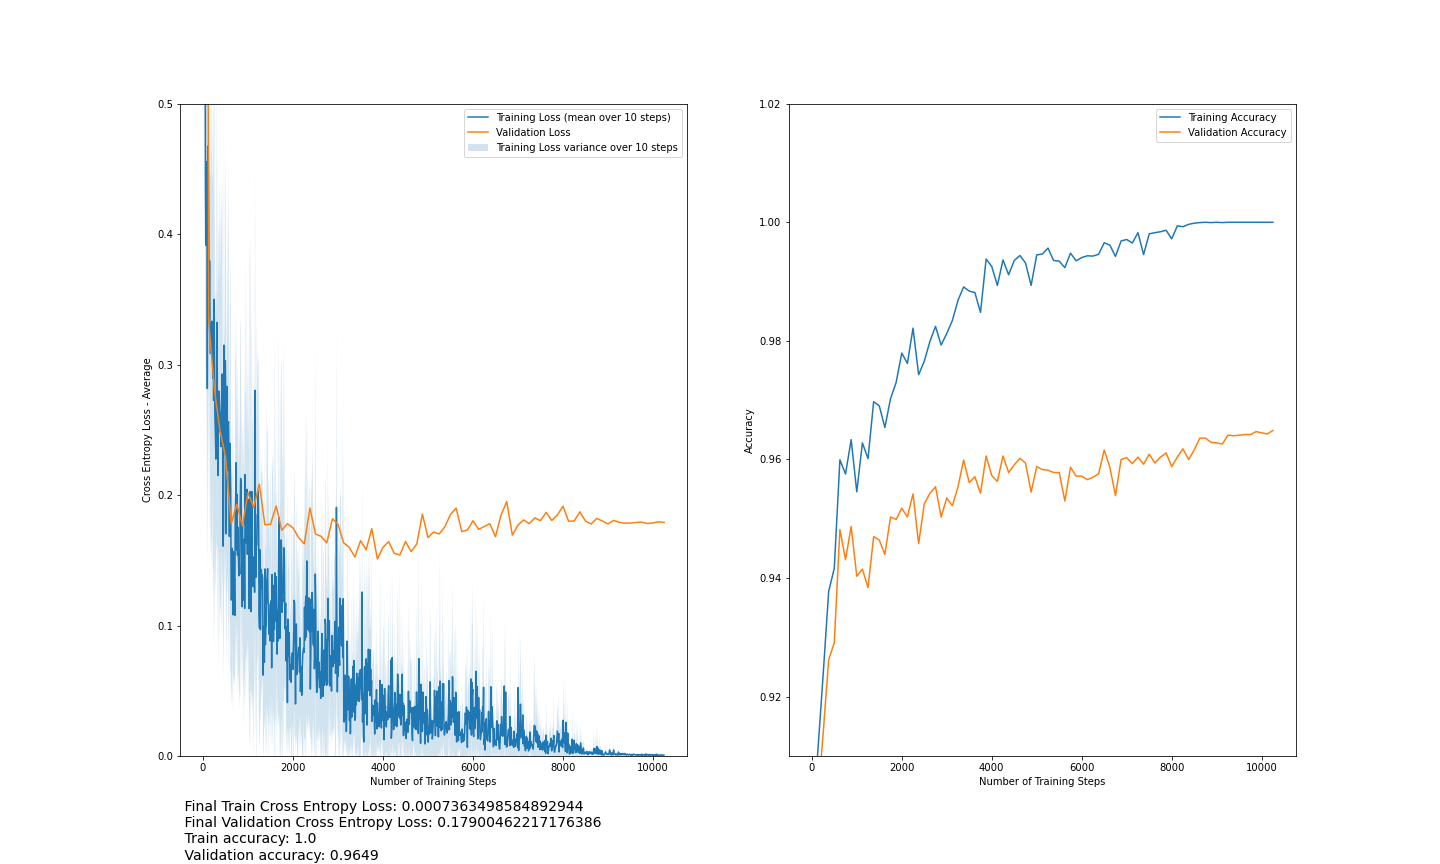
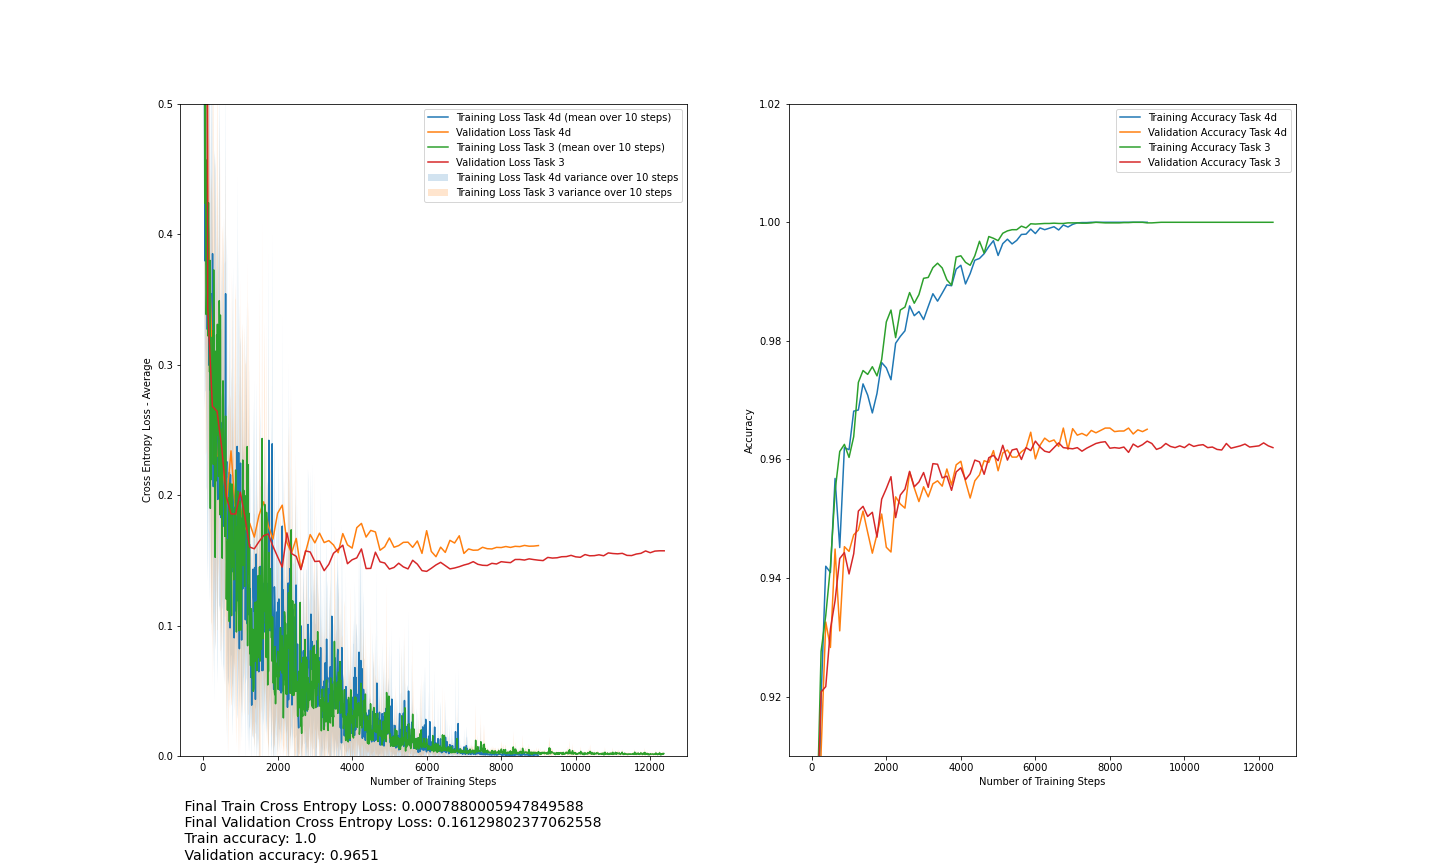
did small modifications to plotts, added new plotts, and wrote in the report for task 4

diff --git a/assignment2/task4e.py b/assignment2/task4e.py
@@ -45,7 +45,7 @@ if __name__ == "__main__":
         use_improved_weight_init)
     trainer_two_hidden_layers = SoftmaxTrainer(
         momentum_gamma, use_momentum,
-        model, learning_rate, batch_size, shuffle_data,
+        model_two_hidden_layers, learning_rate, batch_size, shuffle_data,
         X_train, Y_train, X_val, Y_val,
     )
     train_history_two_hidden_layers, val_history_two_hidden_layers = trainer_two_hidden_layers.train(num_epochs)
@@ -58,44 +58,40 @@ if __name__ == "__main__":
         use_improved_weight_init)
     trainer_ten_hidden_layers = SoftmaxTrainer(
         momentum_gamma, use_momentum,
-        model, learning_rate, batch_size, shuffle_data,
+        model_ten_hidden_layers, learning_rate, batch_size, shuffle_data,
         X_train, Y_train, X_val, Y_val,
     )
     train_history_ten_hidden_layers, val_history_ten_hidden_layers = trainer_ten_hidden_layers.train(num_epochs)
 
 
-    # Plot loss for first model (task 4d)
+    # Plot loss for first model (task 4e)
     plt.figure(figsize=(20, 12))
     plt.subplot(1, 2, 1)
     plt.ylim([0., .5])
     utils.plot_loss(train_history["loss"],
-                    "Training Loss", npoints_to_average=10)
-    utils.plot_loss(val_history["loss"], "Validation Loss")
+                    "Task 3 Model Training Loss", npoints_to_average=10)
+    utils.plot_loss(train_history_two_hidden_layers["loss"],
+                    "Two hidden layers training loss ", npoints_to_average=10)
+    utils.plot_loss(train_history_ten_hidden_layers["loss"],
+                    "Ten hidden layers training loss ",npoints_to_average=10 )
     plt.legend()
     plt.xlabel("Number of Training Steps")
     plt.ylabel("Cross Entropy Loss - Average")
     #Add text with loss and accuracy information
-    plt.annotate("\n Final Train Cross Entropy Loss: {} \n Final Validation Cross Entropy Loss: {} \n Train accuracy: {} \n Validation accuracy: {}".format(
-          cross_entropy_loss(Y_train, model.forward(X_train)),
-          cross_entropy_loss(Y_val, model.forward(X_val)), calculate_accuracy(X_train, Y_train, model), calculate_accuracy(X_val, Y_val, model)),  # Your string
 
-            # The point that we'll place the text in relation to 
-            xy=(0, -0.01), 
-            # Interpret the x as axes coords, and the y as figure coords
-            xycoords=('axes fraction', 'figure fraction'),
-
-            # The distance from the point that the text will be at
-            xytext=(0, 10),  
-            # Interpret `xytext` as an offset in points...
-            textcoords='offset points',
-
-            # Any other text parameters we'd like
-            size=14, ha='left', va='bottom')
+    
     # Plot accuracy
     plt.subplot(1, 2, 2)
     plt.ylim([0.91, 1.02])
-    utils.plot_loss(train_history["accuracy"], "Training Accuracy")
-    utils.plot_loss(val_history["accuracy"], "Validation Accuracy")
+    utils.plot_loss(train_history["accuracy"],
+                    "Task 3 Model Training accuracy")
+    utils.plot_loss(val_history["accuracy"], "Task 3 Model Validation accuracy")
+    utils.plot_loss(train_history_two_hidden_layers["accuracy"],
+                    "Two hidden layers training accuracy", )
+    utils.plot_loss(val_history_two_hidden_layers["accuracy"], "Two hidden layers validation accuracy")
+    utils.plot_loss(train_history_ten_hidden_layers["accuracy"],
+                    "Ten hidden layers training accuracy", )
+    utils.plot_loss(val_history_ten_hidden_layers["accuracy"], "Ten hidden layers validation accuracy")
     plt.xlabel("Number of Training Steps")
     plt.ylabel("Accuracy")
     plt.legend()

diff --git a/assignment2/task3.py b/assignment2/task3.py
@@ -37,23 +37,24 @@ if __name__ == "__main__":
     )
     train_history, val_history = trainer.train(num_epochs)
 
-    # Improved sigmoid
-    use_improved_sigmoid = True
-    model_improved_s = SoftmaxModel(
+
+    # Improved weights
+    use_improved_weight_init = True
+
+    model_improved_w = SoftmaxModel(
         neurons_per_layer,
         use_improved_sigmoid,
         use_improved_weight_init)
-    trainer_improved_s = SoftmaxTrainer(
+    trainer_improved_w = SoftmaxTrainer(
         momentum_gamma, use_momentum,
-        model_improved_s, learning_rate, batch_size, shuffle_data,
+        model_improved_w, learning_rate, batch_size, shuffle_data,
         X_train, Y_train, X_val, Y_val,
     )
-    train_history_improved_s, val_history_improved_s = trainer_improved_s.train(
+    train_history_improved_w, val_history_improved_w = trainer_improved_w.train(
         num_epochs)
-
+    
     # Improved sigmoid & weights
-    use_improved_weight_init = True
-
+    use_improved_sigmoid = True
     model_improved_s_w = SoftmaxModel(
         neurons_per_layer,
         use_improved_sigmoid,
@@ -81,27 +82,31 @@ if __name__ == "__main__":
     train_history_improved_s_w_m, val_history_improved_s_w_m = trainer_improved_s_w_m.train(
         num_epochs)
 
+    plt.figure(figsize=(20, 12))
     plt.subplot(1, 2, 1)
+    plt.ylim([0, .4])
     utils.plot_loss(train_history["loss"],
                     "Task 2 Model", npoints_to_average=10)
     utils.plot_loss(
-        train_history_improved_s["loss"], "Task 3 Model - Improved S", npoints_to_average=10)
+        train_history_improved_w["loss"], "Task 3 Model - Improved W", npoints_to_average=10)
     utils.plot_loss(
-        train_history_improved_s_w["loss"], "Task 3 Model - Improved W", npoints_to_average=10)
+        train_history_improved_s_w["loss"], "Task 3 Model - Improved S", npoints_to_average=10)
     utils.plot_loss(
         train_history_improved_s_w_m["loss"], "Task 3 Model - Improved M", npoints_to_average=10)
-
-    plt.ylim([0, .4])
+    plt.ylabel("Training Loss")
+    plt.xlabel("Number of Training Steps")
+    
     plt.subplot(1, 2, 2)
-    plt.ylim([0.9, 1])
+    plt.ylim([0.88, 0.98])
     utils.plot_loss(val_history["accuracy"], "Task 3 Model")
     utils.plot_loss(
-        val_history_improved_s["accuracy"], "Task 3 Model - Improved S")
+        val_history_improved_w["accuracy"], "Task 3 Model - Improved W")
     utils.plot_loss(
         val_history_improved_s_w["accuracy"], "Task 3 Model - Improved S&W")
     utils.plot_loss(
         val_history_improved_s_w_m["accuracy"], "Task 3 Model - Improved S&W&M")
     plt.ylabel("Validation Accuracy")
+    plt.xlabel("Number of Training Steps")
     plt.legend()
     plt.savefig("task3_tricks_of_the_trade.png")
     plt.show()

diff --git a/assignment2/task4.py b/assignment2/task4.py
@@ -71,17 +71,27 @@ if __name__ == "__main__":
         train_history_64["loss"], "Task 4 Model - 64 Neurons", npoints_to_average=10)
     utils.plot_loss(
         train_history_128["loss"], "Task 4 Model - 128 Neurons", npoints_to_average=10)
+    plt.xlabel("Number of Training Steps")
+    plt.ylabel("Training loss")
+    plt.legend()
 
     plt.ylim([0, .4])
     plt.subplot(1, 2, 2)
-    plt.ylim([0.9, 1])
+    plt.ylim([0.9, 1.01])
     utils.plot_loss(
-        val_history_32["accuracy"], "Task 4 Model - 32 Neurons")
+        val_history_32["accuracy"], "Task 4 Model - 32 Neurons (Validation)")
     utils.plot_loss(
-        val_history_64["accuracy"], "Task 4 Model - 64 Neurons")
+        train_history_32["accuracy"], "Task 4 Model - 32 Neurons (Training)")
     utils.plot_loss(
-        val_history_128["accuracy"], "Task 4 Model - 128 Neurons")
-    plt.ylabel("Validation Accuracy")
+        val_history_64["accuracy"], "Task 4 Model - 64 Neurons (Validation)")
+    utils.plot_loss(
+        train_history_64["accuracy"], "Task 4 Model - 64 Neurons (Training)")
+    utils.plot_loss(
+        val_history_128["accuracy"], "Task 4 Model - 128 Neurons (Validation)")
+    utils.plot_loss(
+        train_history_128["accuracy"], "Task 4 Model - 128 Neurons (Training)")
+    plt.xlabel("Number of Training Steps")
+    plt.ylabel("Accuracy")
     plt.legend()
     plt.savefig("task4_network_topology.png")
     plt.show()
